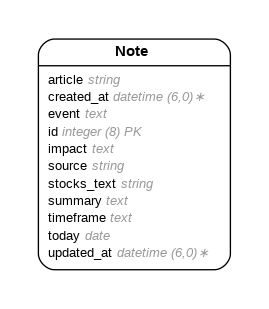
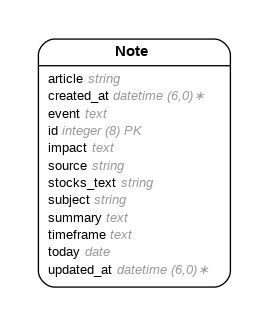
edited to have new edit button

Changed region(s): [[0.119, 0.1165, 0.8625, 0.9029], [0.119, 0.8155, 0.1487, 0.8447]]

diff --git a/app/controllers/notes_controller.rb b/app/controllers/notes_controller.rb
@@ -1,7 +1,7 @@
 class NotesController < ApplicationController
   #display the homepage
   def homepage
-    @notes = Note.all
+    @notes = Note.order(created_at: :desc)
 
     render({ :template => "homepage"})
   end
@@ -27,6 +27,25 @@ class NotesController < ApplicationController
 
     redirect_to("/")
   end
+
+
+  def edit_note
+    note_id = params['id']
+    curr_note = Note.where({ :id => note_id})[0]
+    event = params[:event_choice] == "Other" ? params[:custom_event] : params[:event_choice]
+    note.event = event
+    note.article = params['article']
+    note.source = params['source']
+    note.summary = params['summary']
+    note.impact = params['impact']
+    note.today = params['today']
+    note.timeframe = params['timeframe']
+    note.stocks_text = params['stocks']
+    note.save
+
+    redirect_to("/")
+  end
+
 end
 
 # CODE FOR ADDING OPEN AI STUFF

diff --git a/db/schema.rb b/db/schema.rb
@@ -10,7 +10,7 @@
 #
 # It's strongly recommended that you check this file into your version control system.
 
-ActiveRecord::Schema[7.1].define(version: 2025_04_01_202654) do
+ActiveRecord::Schema[7.1].define(version: 2025_04_04_152512) do
   # These are extensions that must be enabled in order to support this database
   enable_extension "plpgsql"
 
@@ -25,6 +25,7 @@ ActiveRecord::Schema[7.1].define(version: 2025_04_01_202654) do
     t.string "stocks_text"
     t.datetime "created_at", null: false
     t.datetime "updated_at", null: false
+    t.string "subject"
   end
 
 end

diff --git a/config/routes.rb b/config/routes.rb
@@ -3,5 +3,6 @@ Rails.application.routes.draw do
   get("/", {:controller => "notes", :action => "homepage"})
   get("/insert_page", { :controller => "notes", :action => "insert_page"})
   post("/insert_note", { :controller => "notes", :action => "insert_note"})
+  post("/modify_note/:note_id", {:controller => "note", :action => "modify_note"})
   
 end

diff --git a/app/models/note.rb b/app/models/note.rb
@@ -9,6 +9,7 @@
 #  impact      :text
 #  source      :string
 #  stocks_text :string
+#  subject     :string
 #  summary     :text
 #  timeframe   :text
 #  today       :date

diff --git a/db/migrate/20250404152512_add_subject_to_articles.rb b/db/migrate/20250404152512_add_subject_to_articles.rb
@@ -1,0 +1,5 @@
+class AddSubjectToArticles < ActiveRecord::Migration[7.1]
+  def change
+    add_column :notes, :subject, :string
+  end
+end
